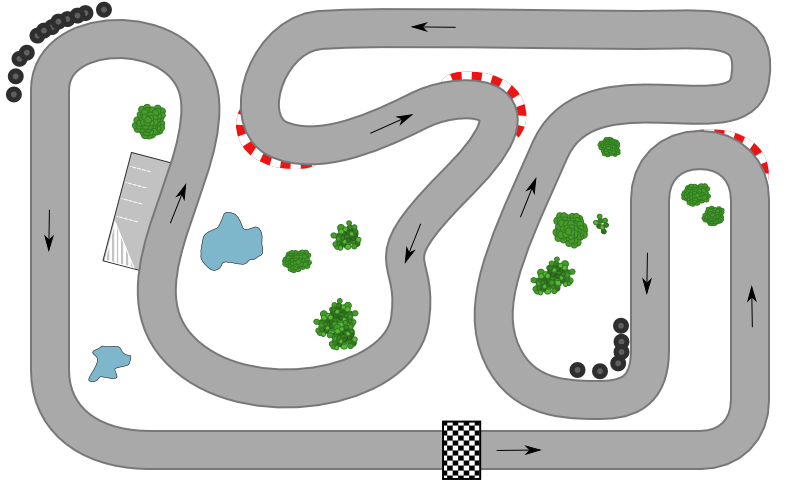
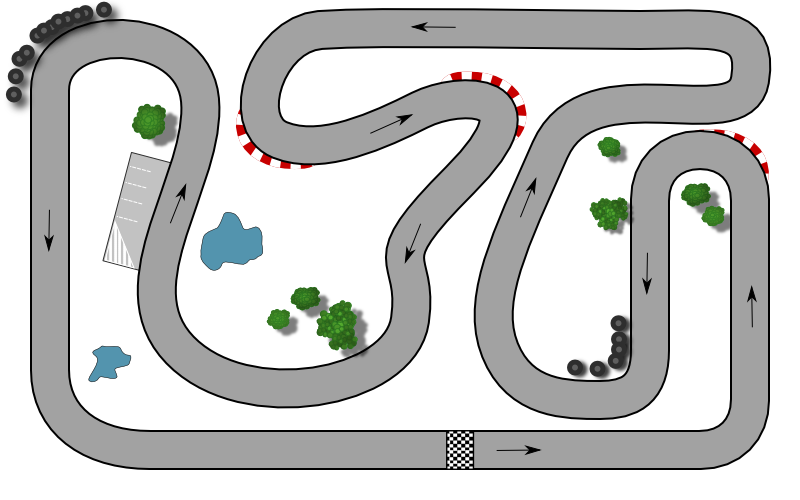
Close communication before exit Updated flags.png and background Removed some warnings

diff --git a/java/src/com/sebulli/gokart/gui/Gui.java b/java/src/com/sebulli/gokart/gui/Gui.java
@@ -27,6 +27,8 @@ import java.awt.Color;
 import java.awt.Font;
 import java.awt.event.ActionEvent;
 import java.awt.event.ActionListener;
+import java.awt.event.WindowAdapter;
+import java.awt.event.WindowEvent;
 import java.util.ArrayList;
 import java.util.List;
 
@@ -74,14 +76,22 @@ public class Gui implements ActionListener {
 	 * @param com
 	 *            Reference to the communication object
 	 */
-	public Gui(Communication com) {
+	public Gui(Communication pcom) {
 
 		// Set a reference to the communication object
-		this.com = com;
+		this.com = pcom;
 
 		// Generate the main frame
 		JFrame frame = new JFrame("Go-Kart Control V1.0.0");
-		frame.setDefaultCloseOperation(JFrame.EXIT_ON_CLOSE);
+		frame.setDefaultCloseOperation(JFrame.HIDE_ON_CLOSE);
+
+		frame.addWindowListener(new WindowAdapter() {
+			public void windowClosing(WindowEvent e) {
+				timer.stop();
+				com.close();
+				System.exit(0);
+			}
+		});
 
 		// Image panel with go-kart track
 		ImagePanel panel = new ImagePanel("pics/background.png");
@@ -92,7 +102,7 @@ public class Gui implements ActionListener {
 		int amountGokartPanels = Config.getInstance().getPropertyAsInt("panels.amount");
 
 		txdata = new TransmitData(amountGokartPanels);
-		
+
 		for (int i = 1; i <= amountGokartPanels; i++) {
 			GokartPanel gokartPanel = new GokartPanel(Config.getInstance().getProperty("panels." + i + ".name"));
 			gokartPanel.setLocation(Config.getInstance().getPropertyAsInt("panels." + i + ".x"), Config.getInstance()
@@ -178,17 +188,17 @@ public class Gui implements ActionListener {
 		frame.getContentPane().add(scrollPane, BorderLayout.CENTER);
 		frame.getContentPane().add(controlPanel, BorderLayout.LINE_END);
 
-		// Set main window on top 
+		// Set main window on top
 		frame.setAlwaysOnTop(Config.getInstance().getPropertyAsInt("window.ontop") == 1);
 
-		
 		frame.setResizable(false);
 		frame.pack();
 		frame.setVisible(true);
-		
+
 		timer = new Timer(100, this);
 		timer.setInitialDelay(100);
-		timer.start(); 
+		timer.start();
+
 	}
 
 	/**
@@ -196,38 +206,37 @@ public class Gui implements ActionListener {
 	 */
 	@Override
 	public void actionPerformed(ActionEvent e) {
-		
+
 		// 100ms Timer
 		if (e.getSource() == timer) {
 			ReceiveData rxdata = com.exchangeData(txdata);
-			for (int i=0; i< gokartPanels.size(); i++) {
-				gokartPanels.get(i).setSignalValue(rxdata.getRSSIValue(i+1));
-				gokartPanels.get(i).setBattValue(rxdata.getBattValue(i+1));
-				gokartPanels.get(i).setFlagValue(rxdata.getPortByte(i+1, 3));
-				for (int ii =0; ii<3; ii++)
-					gokartPanels.get(i).setDisplayValue(ii,rxdata.getPortByte(i+1, ii));
+			for (int i = 0; i < gokartPanels.size(); i++) {
+				gokartPanels.get(i).setSignalValue(rxdata.getRSSIValue(i + 1));
+				gokartPanels.get(i).setBattValue(rxdata.getBattValue(i + 1));
+				gokartPanels.get(i).setFlagValue(rxdata.getPortByte(i + 1, 3));
+				for (int ii = 0; ii < 3; ii++)
+					gokartPanels.get(i).setDisplayValue(ii, rxdata.getPortByte(i + 1, ii));
 			}
 		}
 
-		
 		// Send button was clicked
 		if (e.getSource() == sendButton) {
-			
+
 			// take the values to send them
 			txdata.setDisplayValue(numberControl.getText());
-			
+
 			if (yellowButton.isSelected())
 				txdata.setFlagValue(1);
 			else if (blueButton.isSelected())
 				txdata.setFlagValue(2);
 			else if (redButton.isSelected())
 				txdata.setFlagValue(4);
-			else 
+			else
 				txdata.setFlagValue(0);
-			
+
 			offButton.setSelected(true);
 			numberControl.setText("");
-			
+
 			com.setNewValues();
 		}
 	}

diff --git a/java/src/com/rapplogic/xbee/api/zigbee/NodeDiscover.java b/java/src/com/rapplogic/xbee/api/zigbee/NodeDiscover.java
@@ -28,7 +28,6 @@ import com.rapplogic.xbee.api.XBeeAddress16;
 import com.rapplogic.xbee.api.XBeeAddress64;
 import com.rapplogic.xbee.util.ByteUtils;
 import com.rapplogic.xbee.util.IntArrayInputStream;
-import com.sebulli.gokart.Logger;
 
 /**
  * Series 2 XBee.  Parses a Node Discover (ND) AT Command Response
@@ -38,8 +37,6 @@ import com.sebulli.gokart.Logger;
  */
 public class NodeDiscover {
 
-	private final static Logger log = Logger.getLogger(NodeDiscover.class);
-	
 	public enum DeviceType {
 		DEV_TYPE_COORDINATOR (0),
 		DEV_TYPE_ROUTER (1),

diff --git a/java/src/com/rapplogic/xbee/api/wpan/NodeDiscover.java b/java/src/com/rapplogic/xbee/api/wpan/NodeDiscover.java
@@ -23,7 +23,6 @@ import com.rapplogic.xbee.api.AtCommandResponse;
 import com.rapplogic.xbee.api.XBeeAddress16;
 import com.rapplogic.xbee.api.XBeeAddress64;
 import com.rapplogic.xbee.util.IntArrayInputStream;
-import com.sebulli.gokart.Logger;
 
 // tested ok via xmpp on 4/13/09
 
@@ -32,7 +31,6 @@ import com.sebulli.gokart.Logger;
  */
 public class NodeDiscover {
 
-	private final static Logger log = Logger.getLogger(NodeDiscover.class);
 	
 	private XBeeAddress16 nodeAddress16;
 	private XBeeAddress64 nodeAddress64;

diff --git a/java/src/com/rapplogic/xbee/api/zigbee/ZNetTxRequest.java b/java/src/com/rapplogic/xbee/api/zigbee/ZNetTxRequest.java
@@ -45,6 +45,10 @@ public class ZNetTxRequest extends XBeeRequest {
 	// even with all bytes as escape bytes (a total post-escape packet size of 169!).
 	
 	/**
+	 * 
+	 */
+	private static final long serialVersionUID = -5391715539731414314L;
+	/**
 	 * This is the maximum payload size for ZNet firmware, as specified in the datasheet.
 	 * This value is provided for reference only and is not enforced by this software unless
 	 * max size unless specified in the setMaxPayloadSize(int) method.

diff --git a/java/src/com/rapplogic/xbee/XBeePin.java b/java/src/com/rapplogic/xbee/XBeePin.java
@@ -31,6 +31,7 @@ import java.util.List;
  * @author andrew
  *
  */
+@SuppressWarnings("unchecked")
 public class XBeePin {
 
 //TODO add pin direction
@@ -225,6 +226,7 @@ public class XBeePin {
 	 * @author andrew
 	 *
 	 */
+	@SuppressWarnings("rawtypes")
 	private static class PinSorter implements Comparator {
 		public int compare(Object o1, Object o2) {
 			return ((XBeePin)o1).getPin().compareTo(((XBeePin)o2).getPin());

diff --git a/java/src/com/rapplogic/xbee/api/wpan/RxResponseIoSample.java b/java/src/com/rapplogic/xbee/api/wpan/RxResponseIoSample.java
@@ -39,6 +39,11 @@ import com.sebulli.gokart.Logger;
  */
 public class RxResponseIoSample extends RxBaseResponse implements NoRequestResponse {
 	
+	/**
+	 * 
+	 */
+	private static final long serialVersionUID = -330484864377280019L;
+
 	private final static Logger log = Logger.getLogger(RxResponseIoSample.class);
 	
 	public final static int ADC_CHANNEL1 = 0x7e; //01111110

diff --git a/java/src/com/rapplogic/xbee/api/zigbee/ZNetRxIoSampleResponse.java b/java/src/com/rapplogic/xbee/api/zigbee/ZNetRxIoSampleResponse.java
@@ -40,6 +40,11 @@ import com.sebulli.gokart.Logger;
  */
 public class ZNetRxIoSampleResponse extends ZNetRxBaseResponse implements NoRequestResponse {
 	
+	/**
+	 * 
+	 */
+	private static final long serialVersionUID = 3721505741596174156L;
+
 	private final static Logger log = Logger.getLogger(ZNetRxIoSampleResponse.class);
 	
 	private int digitalChannelMaskMsb;

diff --git a/java/src/com/rapplogic/xbee/api/wpan/TxRequestBase.java b/java/src/com/rapplogic/xbee/api/wpan/TxRequestBase.java
@@ -35,6 +35,11 @@ import com.rapplogic.xbee.util.ByteUtils;
 public abstract class TxRequestBase extends XBeeRequest {
 	
 	/**
+	 * 
+	 */
+	private static final long serialVersionUID = -7813304462907316907L;
+
+	/**
 	 * Maximum payload size as specified in the series 1 XBee manual.
 	 * This is provided for reference only and is not used for validation
 	 */

diff --git a/java/src/com/sebulli/gokart/gui/GokartPanel.java b/java/src/com/sebulli/gokart/gui/GokartPanel.java
@@ -79,7 +79,7 @@ public class GokartPanel extends JPanel {
 		setLayout(null);
 
 		// Generate the control elements
-		flag = new IconDisplay("flags.png", 4, 1);
+		flag = new IconDisplay("flags.png", 4, 3);
 		batt = new IconDisplay("battery.png", 11, 1);
 		signal = new IconDisplay("signal.png", 7, 1);
 		seg7s = new IconDisplay[3];

diff --git a/java/src/com/rapplogic/xbee/api/wpan/RxResponse16.java b/java/src/com/rapplogic/xbee/api/wpan/RxResponse16.java
@@ -34,6 +34,11 @@ import com.rapplogic.xbee.api.XBeeAddress16;
  */
 public class RxResponse16 extends RxResponse implements NoRequestResponse {
 	
+	/**
+	 * 
+	 */
+	private static final long serialVersionUID = -8697512452148199950L;
+
 	public XBeeAddress16 getRemoteAddress() {
 		return (XBeeAddress16) this.getSourceAddress();
 	}

diff --git a/java/src/com/rapplogic/xbee/api/RemoteAtRequest.java b/java/src/com/rapplogic/xbee/api/RemoteAtRequest.java
@@ -36,6 +36,10 @@ import com.rapplogic.xbee.util.IntArrayOutputStream;
  */
 public class RemoteAtRequest extends AtCommand {
 	
+	/**
+	 * 
+	 */
+	private static final long serialVersionUID = 7571763210614019907L;
 	private XBeeAddress64 remoteAddr64;
 	private XBeeAddress16 remoteAddr16;
 	private boolean applyChanges;

diff --git a/java/src/com/rapplogic/xbee/api/zigbee/ZNetExplicitRxResponse.java b/java/src/com/rapplogic/xbee/api/zigbee/ZNetExplicitRxResponse.java
@@ -32,6 +32,10 @@ import com.rapplogic.xbee.util.DoubleByte;
  */
 public class ZNetExplicitRxResponse extends ZNetRxResponse {
 	
+	/**
+	 * 
+	 */
+	private static final long serialVersionUID = -7369267497562810281L;
 	private int sourceEndpoint;
 	private int destinationEndpoint;
 	private DoubleByte clusterId;
